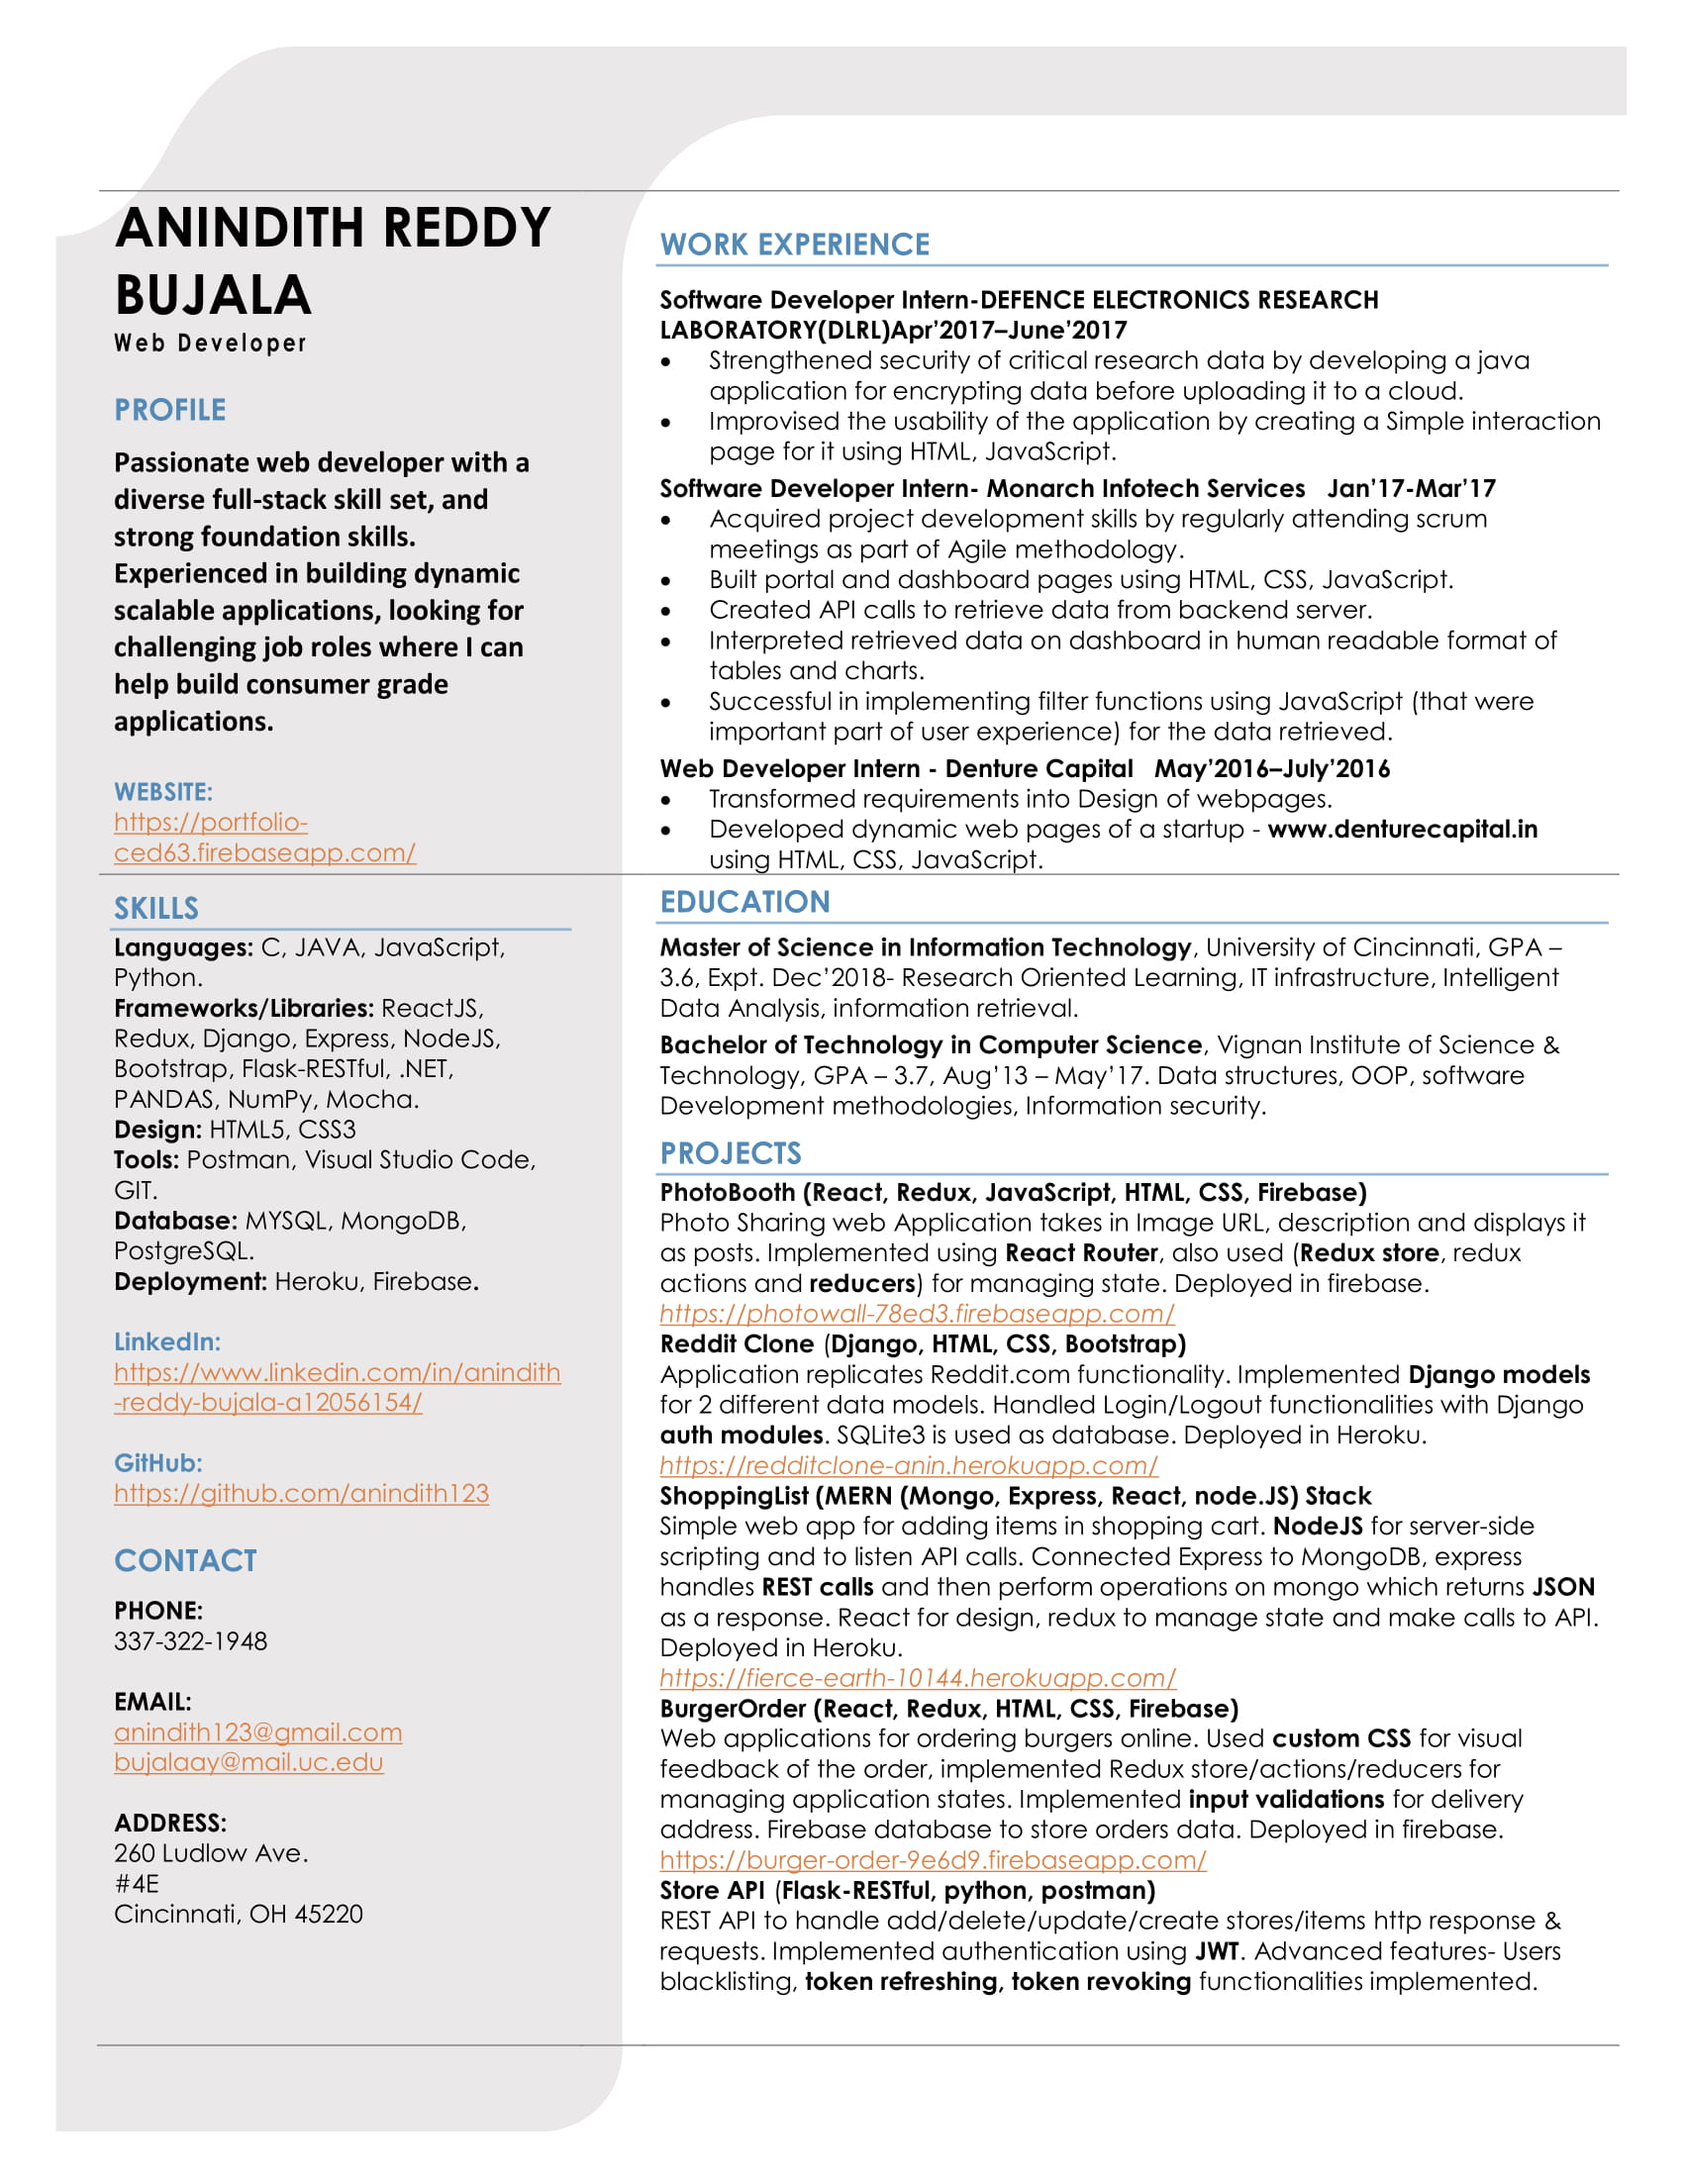
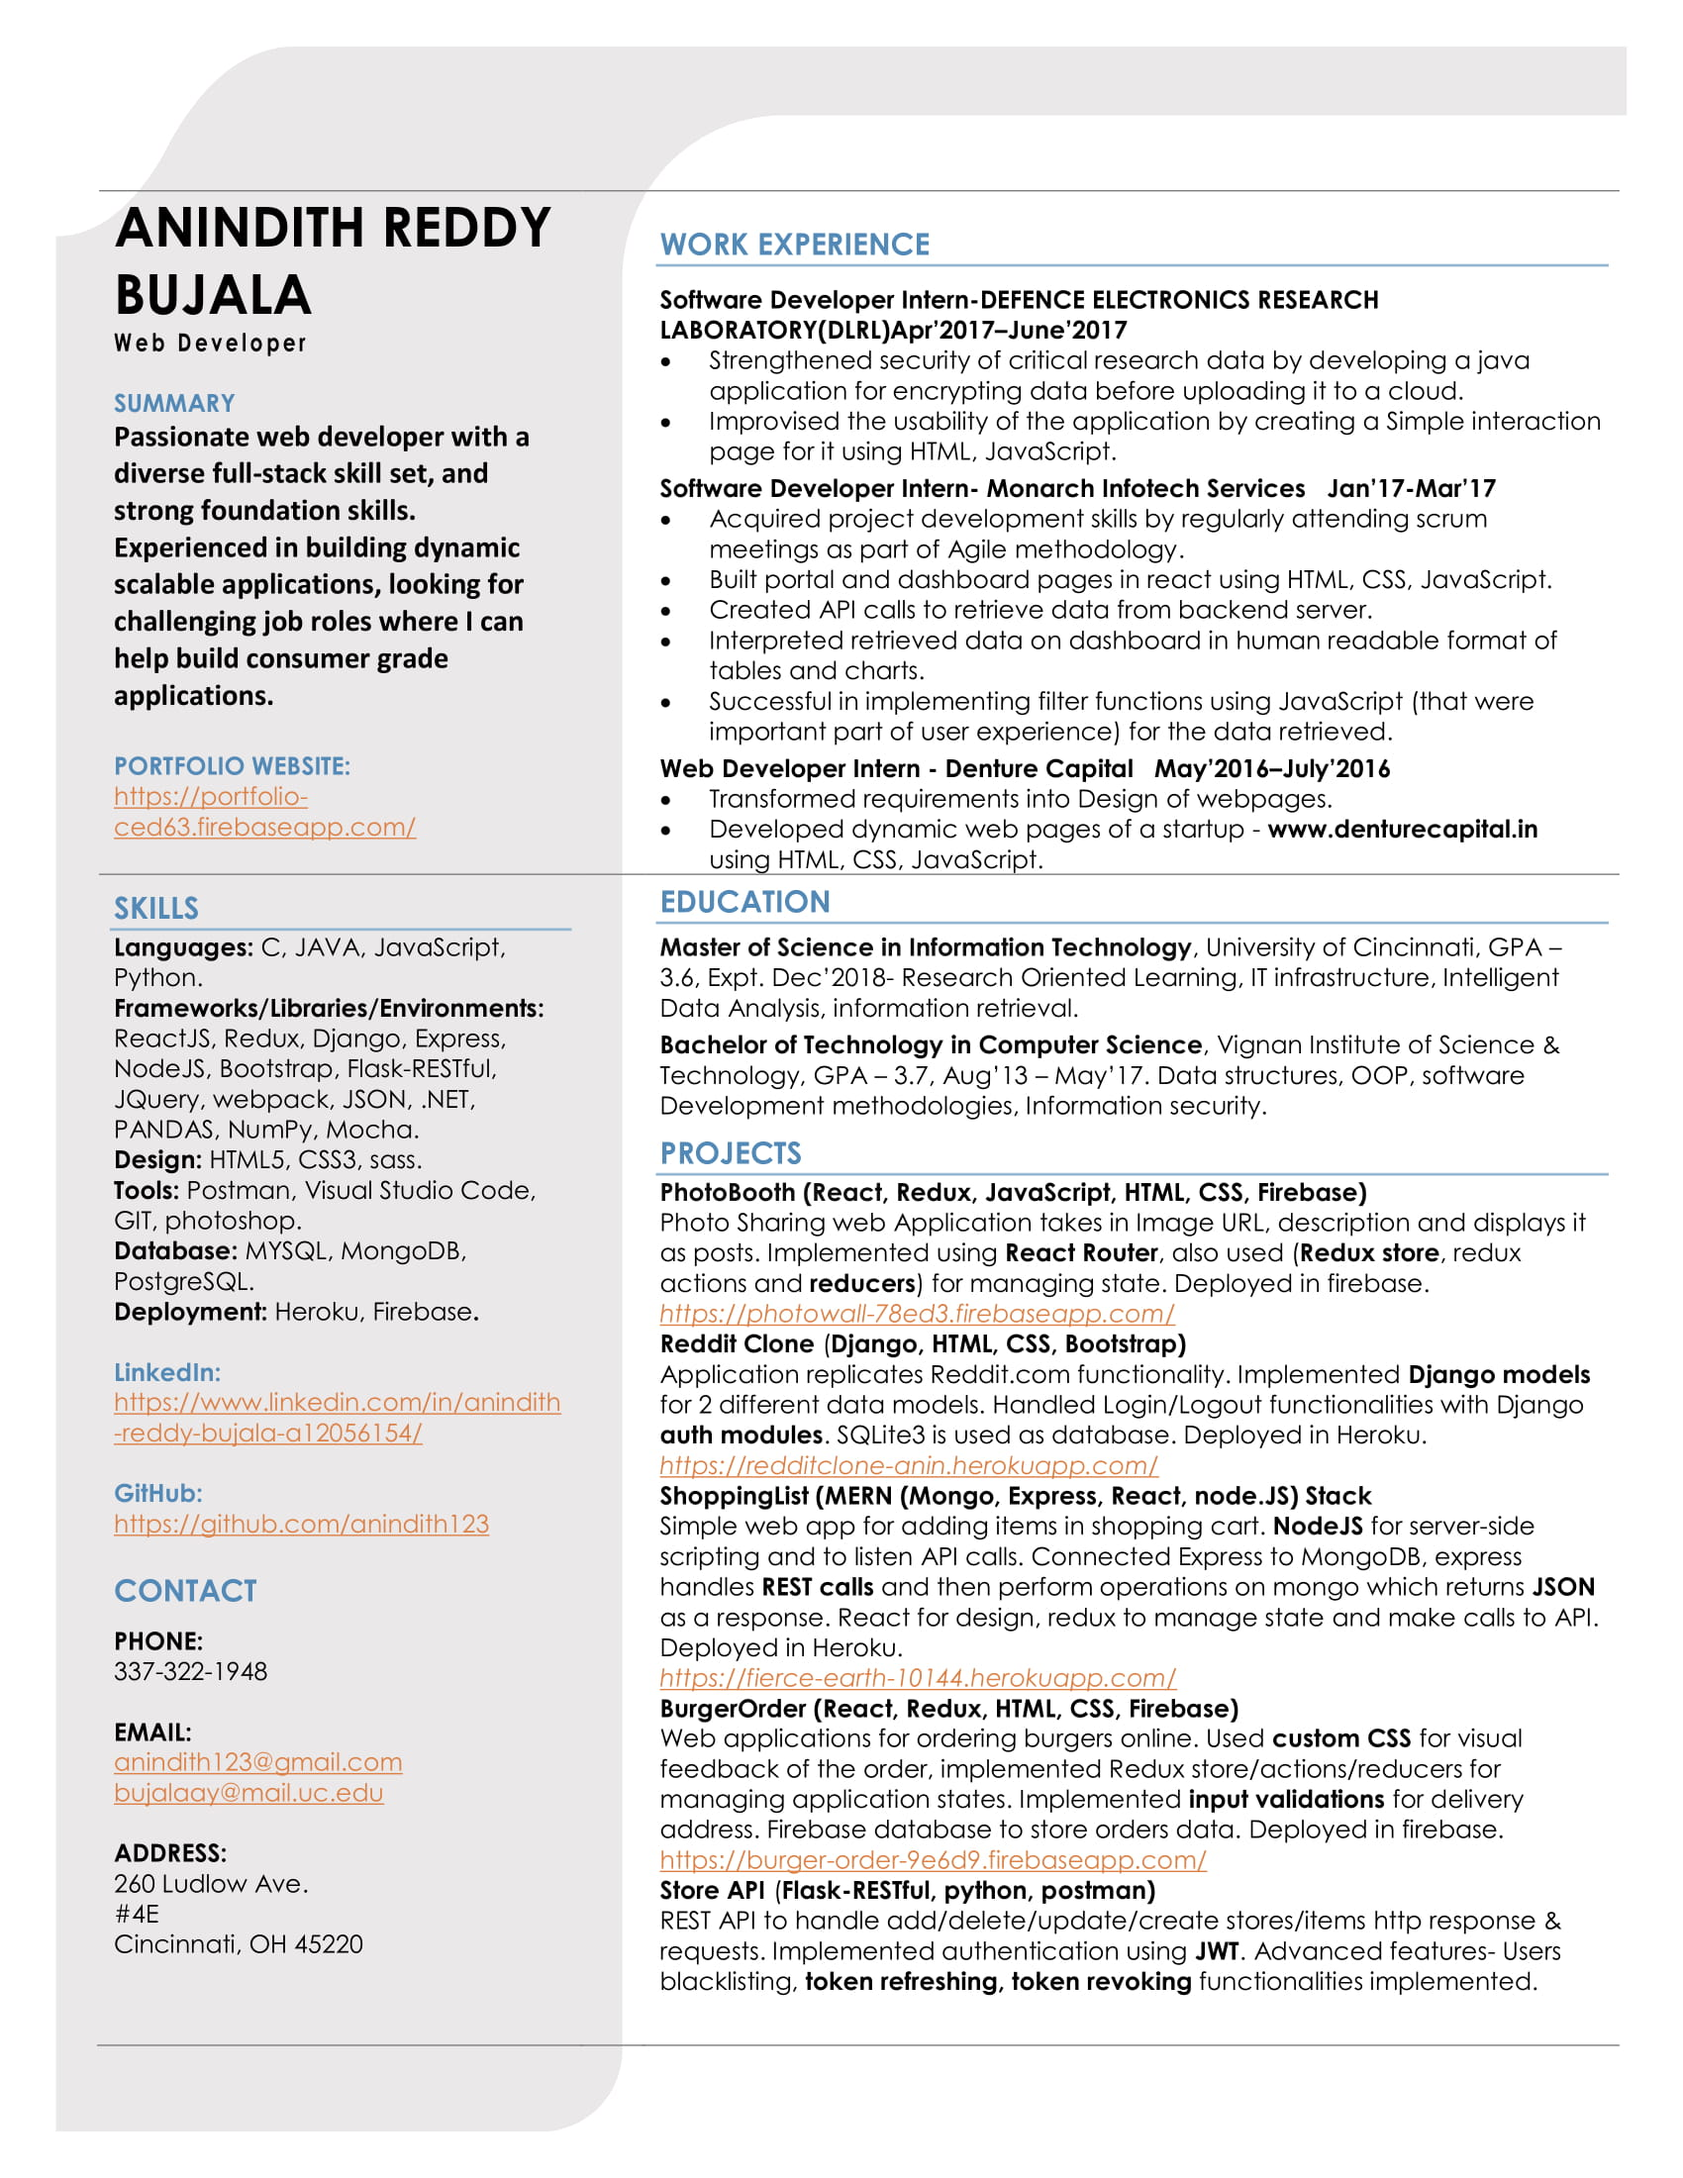
updated skills media files

Changed region(s): [[0.0624, 0.4636, 0.3429, 0.8964], [0.0624, 0.1855, 0.3118, 0.4018], [0.6859, 0.2473, 0.9041, 0.2782]]

diff --git a/src/components/Toolstest.js b/src/components/Toolstest.js
@@ -39,7 +39,8 @@ class Toolstest extends Component {
              <div className="card-body centerAlign">
                 <h5 className="card-title centerAlign">Design</h5>
                 <pre><p className="card-text cardcontain"><i data-toggle="tooltip" title="html5"  className="devicon-html5-plain colored toolIcons"></i>&nbsp;
-                                                <i data-toggle="tooltip" title="css3"  className="devicon-css3-plain colored toolIcons"></i>
+                                                <i data-toggle="tooltip" title="css3"  className="devicon-css3-plain colored toolIcons"></i>&nbsp;
+                                                <i data-toggle="tooltip" title="sass" class="devicon-sass-original colored toolIcons"></i>
                 </p></pre>
             </div>
              </div>
